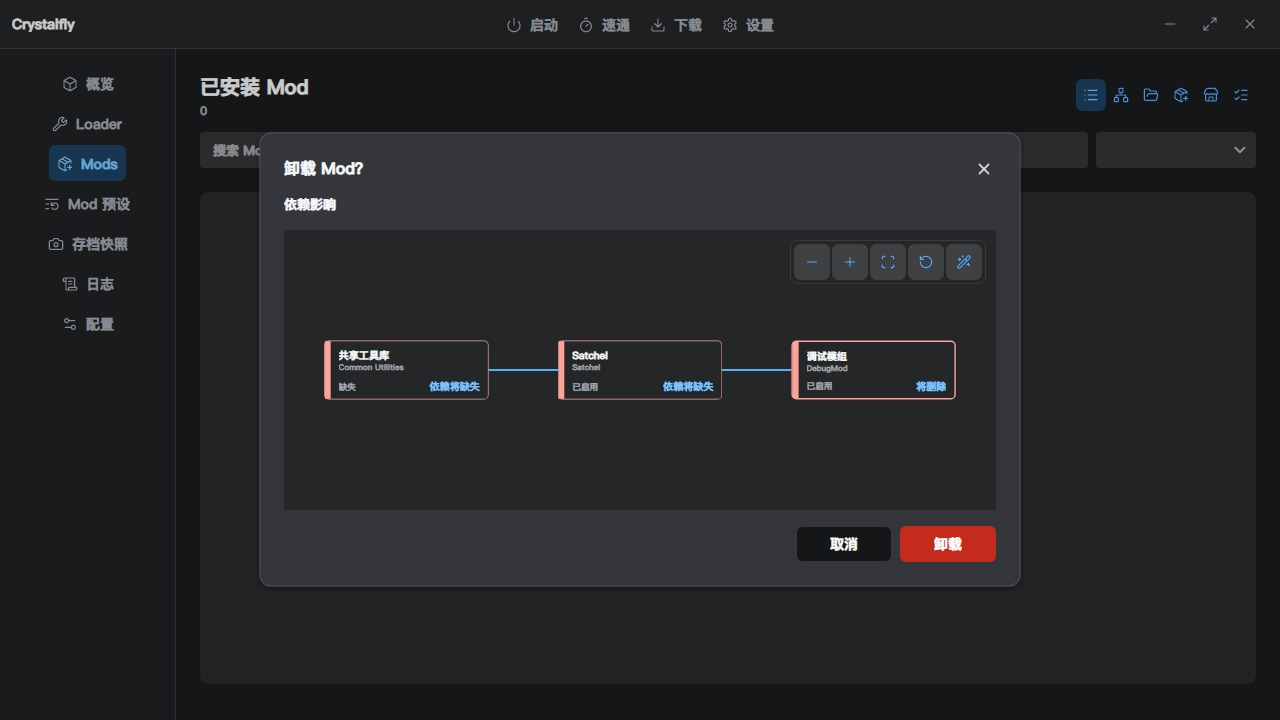
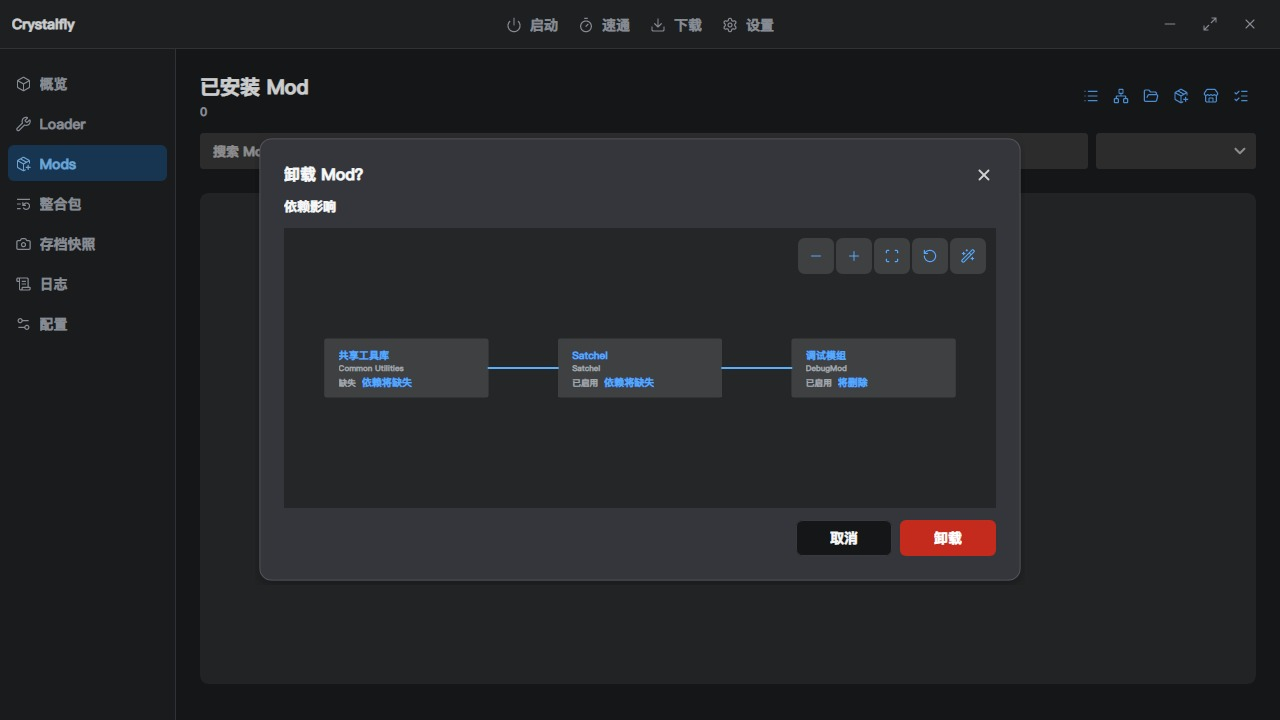
fix: improve dependency graph edge visibility and title alignment

diff --git a/tests/Crystalfly.App.Tests/Ui/DependencyGraphViewRenderTests.cs b/tests/Crystalfly.App.Tests/Ui/DependencyGraphViewRenderTests.cs
@@ -1,0 +1,167 @@
+using Avalonia;
+using Avalonia.Controls;
+using Avalonia.Headless;
+using Avalonia.Headless.XUnit;
+using Avalonia.Media;
+using Avalonia.Media.Imaging;
+using Avalonia.Styling;
+using Avalonia.Threading;
+using Avalonia.VisualTree;
+using Crystalfly.App.ViewModels.DependencyGraph;
+using Crystalfly.App.Views.Controls;
+using SkiaSharp;
+using System.IO;
+
+namespace Crystalfly.App.Tests.Ui;
+
+public sealed class DependencyGraphViewRenderTests
+{
+    [AvaloniaFact]
+    public void DependencyGraphEdges_renders_edges_with_the_line_brush_color()
+    {
+        var previousTheme = Application.Current!.RequestedThemeVariant;
+        Application.Current.RequestedThemeVariant = ThemeVariant.Dark;
+        Window? window = null;
+        try
+        {
+            var source = new DependencyGraphNodeViewModel(
+                new DependencyGraphNodeDefinition("a", "A", string.Empty, "Enabled", DependencyGraphNodeState.Normal));
+            var target = new DependencyGraphNodeViewModel(
+                new DependencyGraphNodeDefinition("b", "B", string.Empty, "Enabled", DependencyGraphNodeState.Normal));
+            source.SetPosition(28, 28);
+            target.SetPosition(352, 28);
+            var edge = new DependencyGraphEdgeViewModel(source, target);
+            var control = new DependencyGraphEdges
+            {
+                Width = 608,
+                Height = 138,
+                Edges = [edge],
+                LineBrush = new SolidColorBrush(Color.Parse("#565C66")),
+                HighlightBrush = new SolidColorBrush(Colors.Red),
+                ErrorBrush = new SolidColorBrush(Colors.Red)
+            };
+            window = new Window
+            {
+                Width = 700,
+                Height = 220,
+                Background = new SolidColorBrush(Colors.Black),
+                Content = control
+            };
+            window.Show();
+            Dispatcher.UIThread.RunJobs();
+            AvaloniaHeadlessPlatform.ForceRenderTimerTick(2);
+            Dispatcher.UIThread.RunJobs();
+
+            // Edge midpoint in graph coordinates: ((28 + NodeWidth + 352) / 2, 28 + NodeHeight / 2) = (304, 69).
+            var frame = Assert.IsType<WriteableBitmap>(window.GetLastRenderedFrame());
+            using var bitmap = Decode(frame);
+            var screen = control.TranslatePoint(new Point(304, 69), window) ?? throw new InvalidOperationException();
+            var pixel = bitmap.GetPixel((int)Math.Round(screen.X), (int)Math.Round(screen.Y));
+
+            // CfEdgeBrush dark-theme value is #565C66; the midpoint must be painted with it rather than
+            // left transparent (black window background) or painted with the highlight/error brushes.
+            Assert.True(
+                Math.Abs(pixel.Red - 0x56) <= 25
+                    && Math.Abs(pixel.Green - 0x5C) <= 25
+                    && Math.Abs(pixel.Blue - 0x66) <= 25,
+                $"expected line brush color #565C66 at ({screen.X:F0},{screen.Y:F0}), got pixel RGB({pixel.Red},{pixel.Green},{pixel.Blue})");
+        }
+        finally
+        {
+            window?.Close();
+            Application.Current.RequestedThemeVariant = previousTheme;
+        }
+    }
+
+    [AvaloniaFact]
+    public void DependencyGraphView_renders_a_highlighted_edge_with_the_accent_color()
+    {
+        var previousTheme = Application.Current!.RequestedThemeVariant;
+        Application.Current.RequestedThemeVariant = ThemeVariant.Dark;
+        Window? window = null;
+        try
+        {
+            var graph = DependencyGraphModel.Create(
+                [
+                    new DependencyGraphNodeDefinition("a", "Node A", "A", "Enabled", DependencyGraphNodeState.Normal),
+                    new DependencyGraphNodeDefinition("b", "Node B", "B", "Enabled", DependencyGraphNodeState.Normal)
+                ],
+                [new DependencyGraphEdgeDefinition("a", "b")]);
+            var view = new DependencyGraphView { DataContext = graph };
+            window = new Window { Width = 900, Height = 600, Content = view };
+            window.Show();
+            Dispatcher.UIThread.RunJobs();
+            AvaloniaHeadlessPlatform.ForceRenderTimerTick(2);
+            Dispatcher.UIThread.RunJobs();
+
+            // The model selects the first node by default, which highlights the connected edge.
+            Assert.True(graph.Edges.Single().IsHighlighted);
+            var nodeA = graph.Nodes.Single(node => node.Id == "a");
+            var nodeB = graph.Nodes.Single(node => node.Id == "b");
+            var edgeMidpoint = new Point(
+                (nodeA.X + DependencyGraphModel.NodeWidth + nodeB.X) / 2,
+                nodeA.Y + DependencyGraphModel.NodeHeight / 2);
+            var screen = new Point(
+                edgeMidpoint.X * view.Scale + view.Translation.X,
+                edgeMidpoint.Y * view.Scale + view.Translation.Y);
+
+            var frame = Assert.IsType<WriteableBitmap>(window.GetLastRenderedFrame());
+            using var bitmap = Decode(frame);
+            var pixel = bitmap.GetPixel((int)Math.Round(screen.X), (int)Math.Round(screen.Y));
+
+            // Highlighted edges use the accent color (#5AAEFA in the dark theme).
+            Assert.True(
+                Math.Abs(pixel.Red - 0x5A) <= 25
+                    && Math.Abs(pixel.Green - 0xAE) <= 25
+                    && Math.Abs(pixel.Blue - 0xFA) <= 25,
+                $"expected accent color #5AAEFA at ({screen.X:F1},{screen.Y:F1}) scale={view.Scale:F3} translation={view.Translation}, got pixel RGB({pixel.Red},{pixel.Green},{pixel.Blue})");
+        }
+        finally
+        {
+            window?.Close();
+            Application.Current.RequestedThemeVariant = previousTheme;
+        }
+    }
+
+    [AvaloniaFact]
+    public void Node_title_text_starts_near_the_left_edge_of_the_card()
+    {
+        var graph = DependencyGraphModel.Create(
+            [
+                new DependencyGraphNodeDefinition("a", "Node A", "A", "Enabled", DependencyGraphNodeState.Normal),
+                new DependencyGraphNodeDefinition("b", "Node B", "B", "Enabled", DependencyGraphNodeState.Normal)
+            ],
+            [new DependencyGraphEdgeDefinition("a", "b")]);
+        var view = new DependencyGraphView { DataContext = graph };
+        var window = new Window { Width = 900, Height = 600, Content = view };
+        window.Show();
+        Dispatcher.UIThread.RunJobs();
+
+        try
+        {
+            var card = window.GetVisualDescendants()
+                .OfType<Button>()
+                .Single(button => button.DataContext is DependencyGraphNodeViewModel { Id: "a" });
+            var title = window.GetVisualDescendants()
+                .OfType<TextBlock>()
+                .Single(text => text.Text == "Node A");
+            var titleInCard = title.TranslatePoint(new Point(0, 0), card);
+            Assert.NotNull(titleInCard);
+            // Title sits after the 8px accent bar plus the 11px content margin, so its left edge
+            // must stay inside the first quarter of the card rather than floating toward the middle.
+            Assert.InRange(titleInCard.Value.X, 0d, DependencyGraphModel.NodeWidth / 4);
+        }
+        finally
+        {
+            window.Close();
+        }
+    }
+
+    private static SKBitmap Decode(WriteableBitmap frame)
+    {
+        using var stream = new MemoryStream();
+        frame.Save(stream, new PngBitmapEncoderOptions());
+        stream.Position = 0;
+        return SKBitmap.Decode(stream);
+    }
+}

diff --git a/src/Crystalfly.App/Views/Controls/DependencyGraphEdges.cs b/src/Crystalfly.App/Views/Controls/DependencyGraphEdges.cs
@@ -63,15 +63,15 @@ public sealed class DependencyGraphEdges : Control
 
         foreach (var edge in edges.Where(edge => edge.IsDimmed))
         {
-            DrawEdge(context, edge, LineBrush, 1, 0.28);
+            DrawEdge(context, edge, LineBrush, 1.5, 0.5);
         }
         foreach (var edge in edges.Where(edge => !edge.IsDimmed && !edge.IsCycle))
         {
-            DrawEdge(context, edge, edge.IsHighlighted ? HighlightBrush ?? LineBrush : LineBrush, edge.IsHighlighted ? 2.5 : 1.5, 1);
+            DrawEdge(context, edge, edge.IsHighlighted ? HighlightBrush ?? LineBrush : LineBrush, edge.IsHighlighted ? 3 : 2.5, 1);
         }
         foreach (var edge in edges.Where(edge => edge.IsCycle))
         {
-            DrawEdge(context, edge, ErrorBrush ?? HighlightBrush ?? LineBrush, 2.5, 1);
+            DrawEdge(context, edge, ErrorBrush ?? HighlightBrush ?? LineBrush, 3, 1);
         }
     }
 
